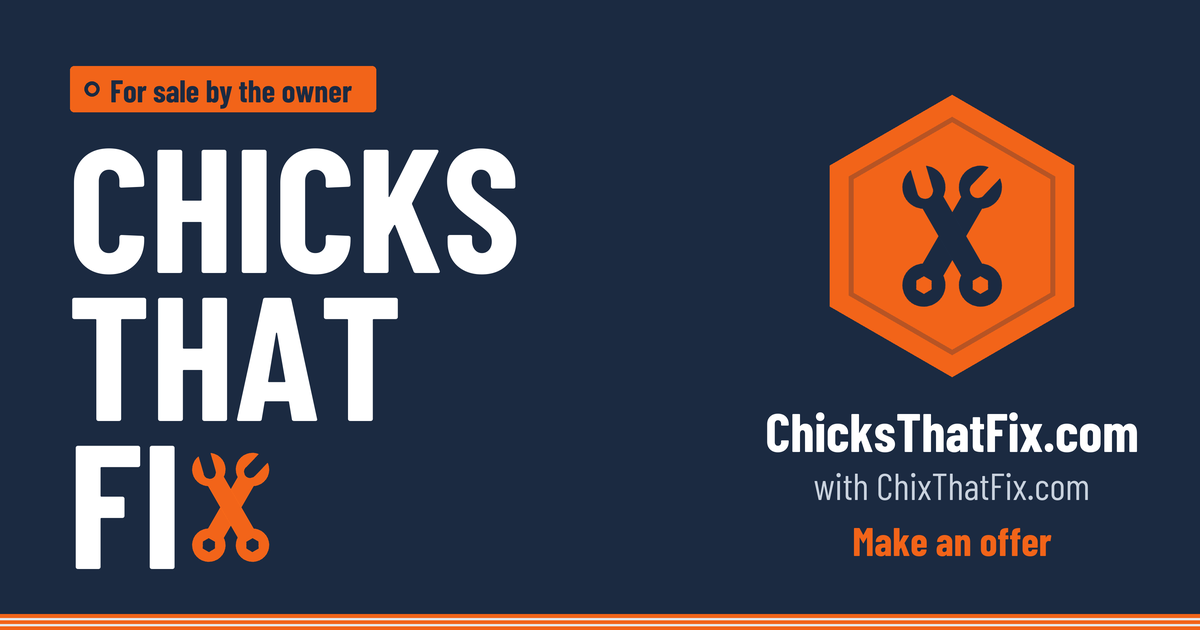
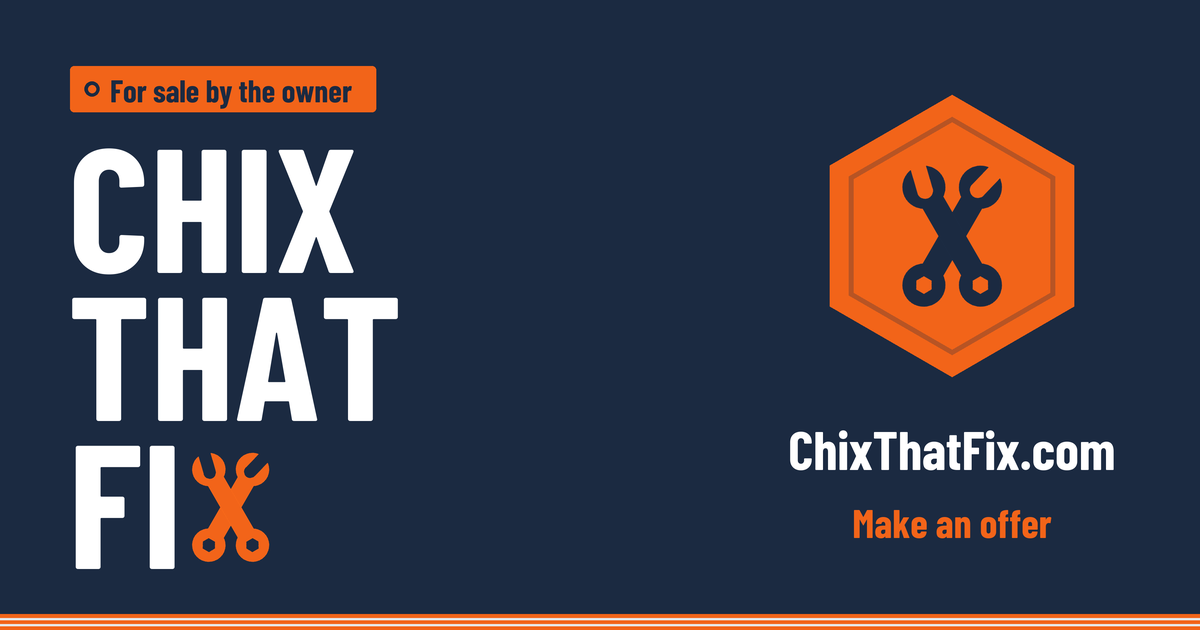
Update site 2026-11-05 18:02:11

Changed region(s): [[0.6167, 0.6333, 0.9558, 0.9048], [0.2158, 0.2111, 0.4317, 0.4524]]

diff --git a/index.html b/index.html
@@ -9,18 +9,18 @@
 <meta name="robots" content="index,follow">
 <meta name="theme-color" content="#1B2A41">
 <meta property="og:type" content="website">
-<meta property="og:site_name" content="ChicksThatFix.com">
+<meta property="og:site_name" content="ChixThatFix.com">
 <meta property="og:title" content="ChicksThatFix.com is for sale, with ChixThatFix.com">
 <meta property="og:description" content="Two .com domains, one ready-made brand for women who fix things. Offered together by their owner. Make an offer.">
-<meta property="og:url" content="https://www.chicksthatfix.com/">
-<meta property="og:image" content="https://www.chicksthatfix.com/og.png">
+<meta property="og:url" content="https://www.chixthatfix.com/">
+<meta property="og:image" content="https://www.chixthatfix.com/og.png">
 <meta property="og:image:width" content="1200">
 <meta property="og:image:height" content="630">
-<meta property="og:image:alt" content="The Chicks That Fix wordmark, with an X made of two crossed wrenches, on navy, with a For Sale tag">
+<meta property="og:image:alt" content="The Chix That Fix wordmark, with an X made of two crossed wrenches, on navy, with a For Sale tag">
 <meta name="twitter:card" content="summary_large_image">
 <meta name="twitter:title" content="ChicksThatFix.com is for sale, with ChixThatFix.com">
 <meta name="twitter:description" content="Two .com domains, one ready-made brand for women who fix things. Offered together by their owner. Make an offer.">
-<meta name="twitter:image" content="https://www.chicksthatfix.com/og.png">
+<meta name="twitter:image" content="https://www.chixthatfix.com/og.png">
 <link rel="icon" href="/favicon.svg" type="image/svg+xml">
 <link rel="icon" href="/favicon-32.png" type="image/png" sizes="32x32">
 <link rel="apple-touch-icon" href="/apple-touch-icon.png">
@@ -41,7 +41,6 @@
   ]
 }
 </script>
-<script>if (location.hostname.indexOf('chixthatfix') !== -1) { document.documentElement.classList.add('chix'); }</script>
 <style>
 :root{
   --orange:#F26419;
@@ -105,10 +104,6 @@ a:hover{text-decoration-thickness:3px}
 .wordmark{margin:0}
 .wm{display:block;font-family:var(--display);font-weight:700;text-transform:uppercase;font-size:clamp(5.5rem,15.5vw,14rem);line-height:.84;letter-spacing:-.015em}
 .wm-line{display:block}
-/* One page on two hosts: the head script marks ChixThatFix.com, where the first word reads Chix (a plain X; the wrench X only ends FIX) */
-.name-chix{display:none}
-.chix .name-chicks{display:none}
-.chix .name-chix{display:inline}
 .xw{display:inline-block;height:.70em;width:.50em;vertical-align:baseline;margin-left:0;overflow:visible;fill:var(--orange)}
 .hero-copy{padding-bottom:.6rem}
 .hero-lede{font-size:clamp(1.25rem,1.8vw,1.5rem);line-height:1.4;font-weight:500;max-width:34ch;margin:0 0 1.75rem;color:#E8EDF3}
@@ -270,9 +265,9 @@ a:hover{text-decoration-thickness:3px}
 
 <header class="top">
   <div class="wrap">
-    <a class="brand" href="#top" aria-label="ChicksThatFix.com, top of page">
+    <a class="brand" href="#top" aria-label="ChixThatFix.com, top of page">
       <svg viewBox="0 0 120 120" aria-hidden="true"><use href="#emblem"/></svg>
-      <span>ChicksThatFix.com</span>
+      <span>ChixThatFix.com</span>
     </a>
     <nav class="nav" aria-label="Page sections">
       <a href="#why">Why it works</a>
@@ -291,7 +286,7 @@ a:hover{text-decoration-thickness:3px}
         <p class="tag">For sale by the owner</p>
         <h1 class="wordmark" id="hero-h">
           <span class="wm">
-            <span class="wm-line"><span class="name-chicks">Chicks</span><span class="name-chix">Chix</span></span>
+            <span class="wm-line">Chix</span>
             <span class="wm-line">That</span>
             <span class="wm-line">Fi<span class="sr-only">x</span><svg class="xw" viewBox="-58 -82 116 164" aria-hidden="true" focusable="false"><g class="w1"><use href="#wrench"/></g><g class="w2"><use href="#wrench"/></g></svg></span>
           </span>
@@ -314,13 +309,13 @@ a:hover{text-decoration-thickness:3px}
         <p>Both spellings come with the sale. ChicksThatFix.com is the full name. ChixThatFix.com is the short one: the spelling people type on a phone, and the one that fits a social handle. Owning both keeps imitators off the short spelling, and each address points wherever you choose.</p>
         <p>Both spellings end in X, and the X is the logo: two crossed wrenches that read on the side of a van and in a browser tab alike.</p>
       </div>
-      <figure class="sheet-fig" aria-label="Brand board: the Chicks That Fix wordmark with the X drawn as two crossed wrenches, the hex-nut emblem, the two addresses ChicksThatFix.com and ChixThatFix.com, and a bar of the five brand colours">
+      <figure class="sheet-fig" aria-label="Brand board: the Chix That Fix wordmark with the X drawn as two crossed wrenches, the hex-nut emblem, the address ChixThatFix.com, and a bar of the five brand colours">
         <div class="sheet" aria-hidden="true">
           <div class="sheet-row">
-            <p class="sheet-wm"><span>Chicks</span><span>That</span><span>Fi<svg class="xw" viewBox="-58 -82 116 164" aria-hidden="true" focusable="false"><g transform="rotate(30)"><use href="#wrench"/></g><g transform="rotate(-30)"><use href="#wrench"/></g></svg></span></p>
+            <p class="sheet-wm"><span>Chix</span><span>That</span><span>Fi<svg class="xw" viewBox="-58 -82 116 164" aria-hidden="true" focusable="false"><g transform="rotate(30)"><use href="#wrench"/></g><g transform="rotate(-30)"><use href="#wrench"/></g></svg></span></p>
             <svg class="sheet-emblem" viewBox="0 0 120 120" focusable="false"><use href="#emblem"/></svg>
           </div>
-          <p class="sheet-addr">ChicksThatFix.com<br>ChixThatFix.com</p>
+          <p class="sheet-addr">ChixThatFix.com</p>
           <div class="sheet-bar"><i style="background:#F26419"></i><i style="background:#1B2A41"></i><i style="background:#4F6075"></i><i style="background:#E6E9EB"></i><i style="background:#C9A36A"></i></div>
         </div>
         <figcaption class="caption">Concept branding created for this page, to show the name in use.</figcaption>
@@ -353,10 +348,10 @@ a:hover{text-decoration-thickness:3px}
             <rect x="990" y="150" width="42" height="236" fill="url(#chev)"/>
             <rect x="152" y="300" width="12" height="34" rx="3" fill="#E6E9EB" stroke="#CDD3D8" stroke-width="2"/>
             <rect x="1022" y="300" width="10" height="34" rx="3" fill="#F26419"/>
-            <text class="svgwm" x="560" y="262" font-size="100" fill="#1B2A41" textLength="256" lengthAdjust="spacingAndGlyphs">CHICKS</text>
+            <text class="svgwm" x="560" y="262" font-size="100" fill="#1B2A41" textLength="164.9" lengthAdjust="spacingAndGlyphs">CHIX</text>
             <text class="svgwm" x="560" y="350" font-size="100" fill="#1B2A41" textLength="275" lengthAdjust="spacingAndGlyphs">THAT FI</text>
             <use href="#xmark" x="835" y="280" width="50" height="70" fill="#F26419"/>
-            <text class="svgbody" x="560" y="446" font-size="22" font-weight="600" fill="#4F6075">chicksthatfix.com</text>
+            <text class="svgbody" x="560" y="446" font-size="22" font-weight="600" fill="#4F6075">chixthatfix.com</text>
             <circle cx="300" cy="470" r="78" fill="#F6F7F6"/><circle cx="884" cy="470" r="78" fill="#F6F7F6"/>
             <circle cx="300" cy="470" r="62" fill="#1B2A41"/><circle cx="300" cy="470" r="36" fill="#4F6075"/><circle cx="300" cy="470" r="12" fill="#E6E9EB"/>
             <circle cx="884" cy="470" r="62" fill="#1B2A41"/><circle cx="884" cy="470" r="36" fill="#4F6075"/><circle cx="884" cy="470" r="12" fill="#E6E9EB"/>
@@ -370,7 +365,7 @@ a:hover{text-decoration-thickness:3px}
             <rect width="800" height="500" fill="#fff"/>
             <rect x="40" y="34" width="720" height="412" rx="16" fill="#121C2D"/>
             <rect x="54" y="48" width="692" height="384" rx="8" fill="url(#vig)"/>
-            <text class="svgwm" x="246.5" y="232" font-size="120" fill="#fff" textLength="307" lengthAdjust="spacingAndGlyphs">CHICKS</text>
+            <text class="svgwm" x="301.1" y="232" font-size="120" fill="#fff" textLength="197.9" lengthAdjust="spacingAndGlyphs">CHIX</text>
             <text class="svgwm" x="202.5" y="338" font-size="120" fill="#fff" textLength="330" lengthAdjust="spacingAndGlyphs">THAT FI</text>
             <use href="#xmark" x="533" y="254" width="60" height="84" fill="#F26419"/>
             <rect x="340" y="362" width="120" height="5" fill="#F26419"/>
@@ -395,7 +390,7 @@ a:hover{text-decoration-thickness:3px}
             <rect x="100" y="498" width="44" height="10" rx="3" fill="#121C2D"/>
             <rect x="456" y="498" width="44" height="10" rx="3" fill="#121C2D"/>
             <use href="#emblem" x="112" y="346" width="96" height="96"/>
-            <text class="svgwm" x="232" y="392" font-size="56" fill="#fff" textLength="143" lengthAdjust="spacingAndGlyphs">CHICKS</text>
+            <text class="svgwm" x="232" y="392" font-size="56" fill="#fff" textLength="92.3" lengthAdjust="spacingAndGlyphs">CHIX</text>
             <text class="svgwm" x="232" y="442" font-size="56" fill="#fff" textLength="154" lengthAdjust="spacingAndGlyphs">THAT FI</text>
             <use href="#xmark" x="386" y="402.8" width="28" height="39.2" fill="#F26419"/>
           </svg>
@@ -418,26 +413,26 @@ a:hover{text-decoration-thickness:3px}
             <circle cx="300" cy="284" r="88" fill="#C9A36A"/>
             <circle cx="300" cy="284" r="82" fill="none" stroke="#fff" stroke-width="3" stroke-dasharray="6 5"/>
             <use href="#emblem" x="262" y="246" width="76" height="76"/>
-            <text class="svgwm" font-size="20" fill="#1B2A41" letter-spacing="2"><textPath href="#arc-top" startOffset="50%" text-anchor="middle">CHICKS THAT FIX</textPath></text>
+            <text class="svgwm" font-size="20" fill="#1B2A41" letter-spacing="2"><textPath href="#arc-top" startOffset="50%" text-anchor="middle">CHIX THAT FIX</textPath></text>
             <text class="svgbody" font-size="13" font-weight="600" fill="#1B2A41" letter-spacing="1"><textPath href="#arc-bot" startOffset="50%" text-anchor="middle">chixthatfix.com</textPath></text>
           </svg>
           <figcaption>On the crew's caps.</figcaption>
         </figure></li>
 
         <li class="mock m-phone"><figure>
-          <svg viewBox="0 0 600 600" role="img" aria-labelledby="t-phone"><title id="t-phone">A phone showing a channel page for Chicks That Fix, with the handle chixthatfix</title>
+          <svg viewBox="0 0 600 600" role="img" aria-labelledby="t-phone"><title id="t-phone">A phone showing a channel page for Chix That Fix, with the handle chixthatfix</title>
             <defs><clipPath id="scr"><rect x="200" y="40" width="200" height="520" rx="28"/></clipPath></defs>
             <rect width="600" height="600" fill="#fff"/>
             <rect x="190" y="30" width="220" height="540" rx="36" fill="#121C2D"/>
             <g clip-path="url(#scr)">
               <rect x="200" y="40" width="200" height="520" fill="#fff"/>
               <rect x="200" y="40" width="200" height="110" fill="#F26419"/>
-              <text class="svgwm" x="216" y="96" font-size="30" fill="#1B2A41" textLength="76.8" lengthAdjust="spacingAndGlyphs">CHICKS</text>
+              <text class="svgwm" x="216" y="96" font-size="30" fill="#1B2A41" textLength="49.5" lengthAdjust="spacingAndGlyphs">CHIX</text>
               <text class="svgwm" x="216" y="130" font-size="30" fill="#1B2A41" textLength="82.5" lengthAdjust="spacingAndGlyphs">THAT FI</text>
               <use href="#xmark" x="298.5" y="109" width="15" height="21" fill="#1B2A41"/>
               <circle cx="246" cy="166" r="32" fill="#fff"/>
               <use href="#emblem" x="222" y="142" width="48" height="48"/>
-              <text class="svgbody" x="288" y="166" font-size="17" font-weight="700" fill="#1B2A41">Chicks That Fix</text>
+              <text class="svgbody" x="288" y="166" font-size="17" font-weight="700" fill="#1B2A41">Chix That Fix</text>
               <text class="svgbody" x="288" y="186" font-size="13" font-weight="500" fill="#4F6075">@chixthatfix</text>
               <rect x="216" y="212" width="90" height="30" rx="15" fill="#F26419"/>
               <text class="svgbody" x="261" y="232" font-size="14" font-weight="700" fill="#1B2A41" text-anchor="middle">Follow</text>
@@ -476,15 +471,15 @@ a:hover{text-decoration-thickness:3px}
             <rect x="48" y="96" width="504" height="430" fill="#E6E9EB"/>
             <rect x="48" y="96" width="504" height="92" fill="#1B2A41"/>
             <rect x="48" y="188" width="504" height="6" fill="#121C2D"/>
-            <text class="svgwm" x="124.2" y="163" font-size="58" fill="#fff" textLength="319.6" lengthAdjust="spacingAndGlyphs">CHICKS THAT FI</text>
-            <use href="#xmark" x="443.8" y="122.4" width="29" height="40.6" fill="#F26419"/>
+            <text class="svgwm" x="150.7" y="163" font-size="58" fill="#fff" textLength="266.7" lengthAdjust="spacingAndGlyphs">CHIX THAT FI</text>
+            <use href="#xmark" x="417.4" y="122.4" width="29" height="40.6" fill="#F26419"/>
             <path d="M36 194h528l-16 54H52Z" fill="url(#awn)"/>
             <g fill="url(#awn)"><circle cx="60" cy="248" r="12"/><circle cx="84" cy="248" r="12"/><circle cx="108" cy="248" r="12"/><circle cx="132" cy="248" r="12"/><circle cx="156" cy="248" r="12"/><circle cx="180" cy="248" r="12"/><circle cx="204" cy="248" r="12"/><circle cx="228" cy="248" r="12"/><circle cx="252" cy="248" r="12"/><circle cx="276" cy="248" r="12"/><circle cx="300" cy="248" r="12"/><circle cx="324" cy="248" r="12"/><circle cx="348" cy="248" r="12"/><circle cx="372" cy="248" r="12"/><circle cx="396" cy="248" r="12"/><circle cx="420" cy="248" r="12"/><circle cx="444" cy="248" r="12"/><circle cx="468" cy="248" r="12"/><circle cx="492" cy="248" r="12"/><circle cx="516" cy="248" r="12"/><circle cx="540" cy="248" r="12"/></g>
             <rect x="84" y="276" width="236" height="214" rx="4" fill="#1B2A41"/>
             <rect x="92" y="284" width="220" height="198" fill="#2E4160"/>
             <path d="M110 482 250 284h40L150 482Z" fill="#3B5078" opacity=".6"/>
             <use href="#emblem" x="167" y="330" width="70" height="70"/>
-            <text class="svgbody" x="202" y="458" font-size="16" font-weight="600" fill="#fff" text-anchor="middle">chicksthatfix.com</text>
+            <text class="svgbody" x="202" y="458" font-size="16" font-weight="600" fill="#fff" text-anchor="middle">chixthatfix.com</text>
             <rect x="356" y="276" width="150" height="250" rx="4" fill="#1B2A41"/>
             <rect x="366" y="286" width="130" height="150" fill="#2E4160"/>
             <rect x="366" y="446" width="130" height="72" fill="#243655"/>
@@ -584,9 +579,9 @@ a:hover{text-decoration-thickness:3px}
 
 <footer class="foot">
   <div class="wrap">
-    <a class="brand" href="#top" aria-label="ChicksThatFix.com, top of page">
+    <a class="brand" href="#top" aria-label="ChixThatFix.com, top of page">
       <svg viewBox="0 0 120 120" aria-hidden="true"><use href="#emblem"/></svg>
-      <span>ChicksThatFix.com</span>
+      <span>ChixThatFix.com</span>
     </a>
     <p>ChicksThatFix.com and ChixThatFix.com are offered for sale by their owner. This page is not affiliated with any company, show or person.</p>
     <p>The branding and mockups on this page are concepts, shown to illustrate the name in use; the sale is for the two domain names.</p>

diff --git a/404.html b/404.html
@@ -41,7 +41,7 @@ p{margin:0 0 1rem;max-width:40ch}
 <symbol id="emblem" viewBox="0 0 120 120"><path d="M60 2 110.2 31v58L60 118 9.8 89V31Z" fill="#F26419"/><g transform="translate(60 60) scale(.4)" fill="#1B2A41"><g transform="rotate(30)"><use href="#wrench"/></g><g transform="rotate(-30)"><use href="#wrench"/></g></g></symbol>
 </defs></svg>
 <header class="top">
-  <a class="brand" href="/"><svg viewBox="0 0 120 120" aria-hidden="true"><use href="#emblem"/></svg><span>ChicksThatFix.com</span></a>
+  <a class="brand" href="/"><svg viewBox="0 0 120 120" aria-hidden="true"><use href="#emblem"/></svg><span>ChixThatFix.com</span></a>
 </header>
 <main>
   <div>
